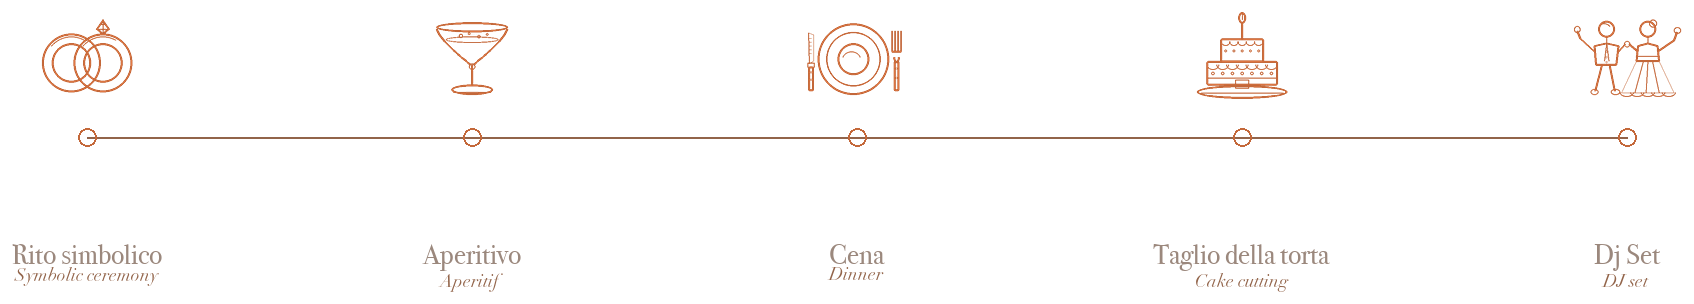
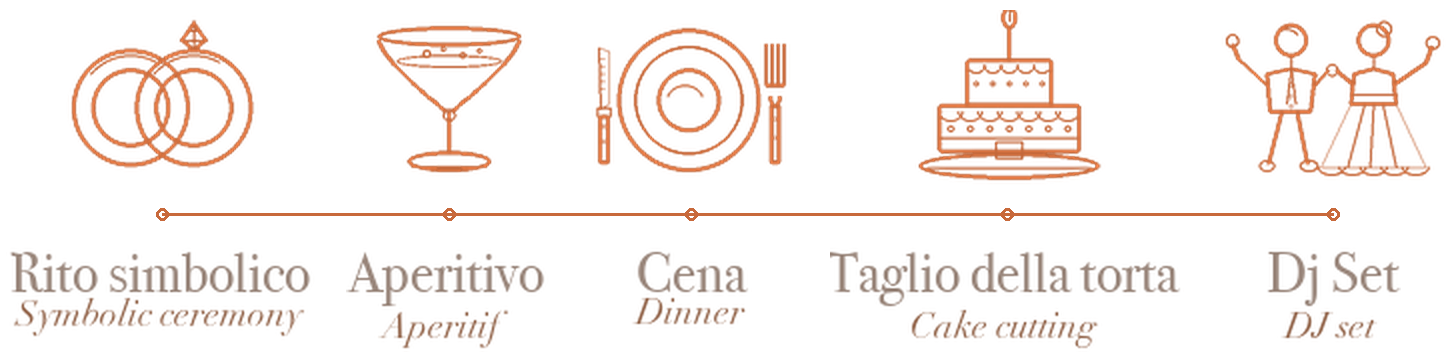
fix: enlarge timeline event fonts in transparent PNG
Rebuild v3 with ~2× icons/labels (proportions kept), transparent
background, no footer; show at max-w-2xl so type reads larger without
the previous full-bleed size.

diff --git a/lib/wedding.ts b/lib/wedding.ts
@@ -38,8 +38,8 @@ export const wedding = {
     timeline: {
       src: "/program-timeline-v3.png",
       alt: "Rito simbolico · Aperitivo · Cena · Taglio della torta · Dj Set",
-      width: 1694,
-      height: 304,
+      width: 1451,
+      height: 359,
     },
     /** Couple photo in China section — landscape, horizon horizontal */
     china: {
